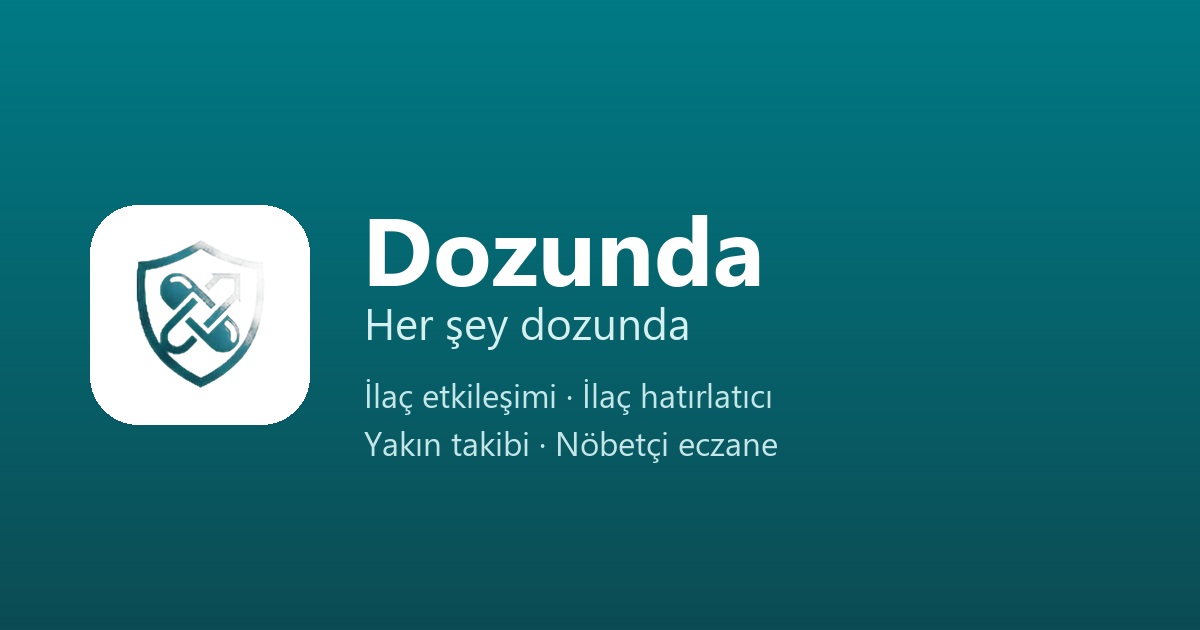
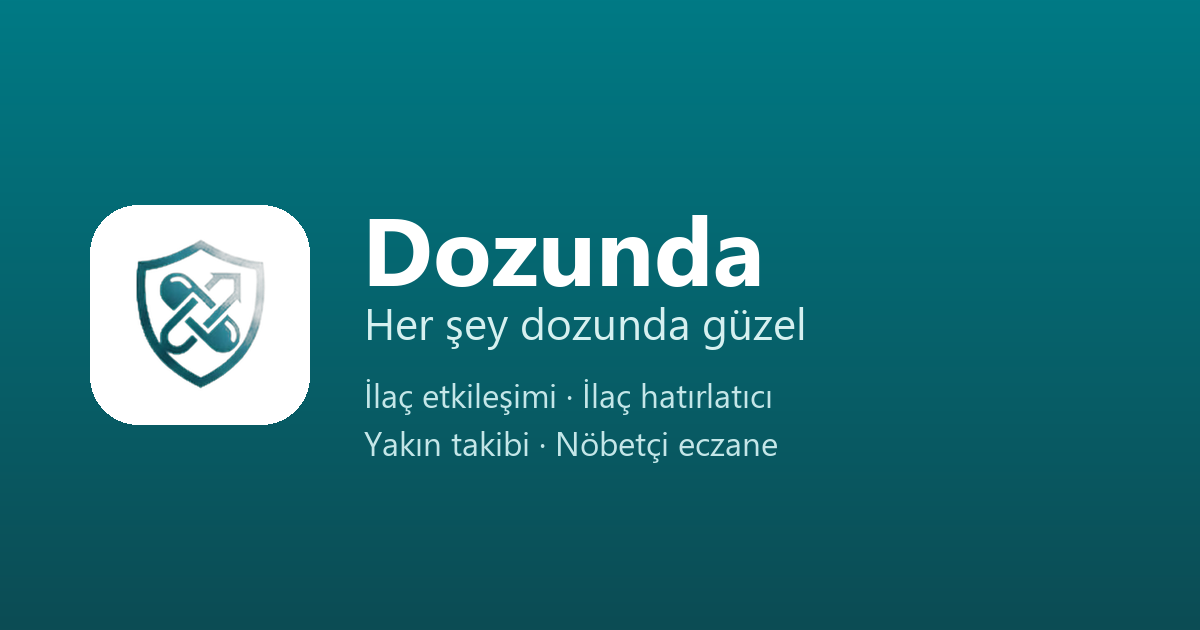
Slogan: paylasim gorselinde 'Her sey dozunda guzel'

Changed region(s): [[0.1233, 0.3619, 0.2467, 0.573], [0.5858, 0.4825, 0.6783, 0.573], [0.1233, 0.5429, 0.1542, 0.573]]

diff --git a/tools/build_og_image.py b/tools/build_og_image.py
@@ -1,0 +1,63 @@
+"""
+Paylaşım görselini (og-image.png) üretir — WhatsApp/X/LinkedIn'de bağlantı paylaşılınca görünen kart.
+
+Kullanım:  python tools/build_og_image.py [kaynak-logo.png]
+"""
+import os
+import sys
+
+from PIL import Image, ImageDraw, ImageFont
+
+ROOT = os.path.dirname(os.path.dirname(os.path.abspath(__file__)))
+DEFAULT_SRC = os.path.join(
+    os.path.dirname(ROOT), "Dosify_mobile_frontend_1_1", "assets", "dozunda-logo.png"
+)
+
+SIZE = (1200, 630)
+TOP, BOTTOM = (0, 122, 133), (12, 76, 84)
+TITLE = "Dozunda"
+SLOGAN = "Her şey dozunda güzel"
+LINES = ["İlaç etkileşimi · İlaç hatırlatıcı", "Yakın takibi · Nöbetçi eczane"]
+
+
+def rounded(size, radius, color):
+    img = Image.new("RGBA", size, (0, 0, 0, 0))
+    ImageDraw.Draw(img).rounded_rectangle([0, 0, size[0] - 1, size[1] - 1], radius=radius, fill=color)
+    return img
+
+
+def main():
+    src = Image.open(sys.argv[1] if len(sys.argv) > 1 else DEFAULT_SRC).convert("RGBA")
+    w, h = src.size
+    shield = src.crop((0, 0, w, int(h * 0.72)))
+    shield = shield.crop(shield.split()[3].getbbox())
+
+    canvas = Image.new("RGB", SIZE, TOP)
+    draw = ImageDraw.Draw(canvas)
+    for y in range(SIZE[1]):
+        t = y / (SIZE[1] - 1)
+        draw.line([(0, y), (SIZE[0], y)], fill=tuple(int(TOP[i] + (BOTTOM[i] - TOP[i]) * t) for i in range(3)))
+
+    badge = rounded((220, 220), 48, (255, 255, 255, 255))
+    mark = shield.copy()
+    mark.thumbnail((152, 152), Image.LANCZOS)
+    badge.alpha_composite(mark, ((220 - mark.size[0]) // 2, (220 - mark.size[1]) // 2))
+    canvas.paste(badge, (90, 205), badge)
+
+    bold = ImageFont.truetype(r"C:\Windows\Fonts\segoeuib.ttf", 96)
+    regular = ImageFont.truetype(r"C:\Windows\Fonts\segoeui.ttf", 44)
+    small = ImageFont.truetype(r"C:\Windows\Fonts\segoeui.ttf", 33)
+
+    draw = ImageDraw.Draw(canvas)
+    draw.text((362, 182), TITLE, font=bold, fill=(255, 255, 255))
+    draw.text((364, 292), SLOGAN, font=regular, fill=(214, 240, 240))
+    for i, line in enumerate(LINES):
+        draw.text((364, 372 + i * 48), line, font=small, fill=(196, 230, 232))
+
+    out = os.path.join(ROOT, "og-image.png")
+    canvas.save(out, quality=95)
+    print("og-image.png", os.path.getsize(out), "bayt")
+
+
+if __name__ == "__main__":
+    main()
